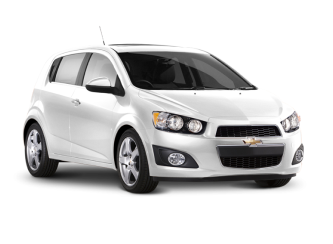
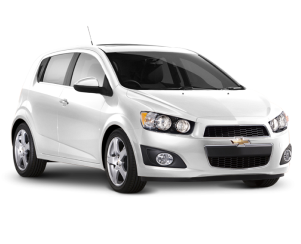
change size in styles for img

diff --git a/css/style.css b/css/style.css
@@ -2258,8 +2258,8 @@ margin-top: 106px;
 
 @media(max-width: 430px) {
     .callback__img {
-        height: 236px;
-        width: auto;
+        height: auto;
+        width: 100%;
         margin-top: -28px;
     }
 }
@@ -2773,8 +2773,8 @@ margin-top: 106px;
 
 @media(max-width: 400px) {
     .callback__img {
-        width: 285px;
         height: auto;
+        width: 100%;
         margin-top: 4px;
     }  
 }
@@ -2823,16 +2823,6 @@ margin-top: 106px;
     .about-us__card-text {
         font-size: 15px;
     }
-}
-
-
-
-@media(max-width: 365px) {
-    .callback__img {
-        width: 273px;
-        height: auto;
-        margin-top: 4px;
-    }  
 }
 
 /* ------------------------- media 340 ------------------------------------ */
